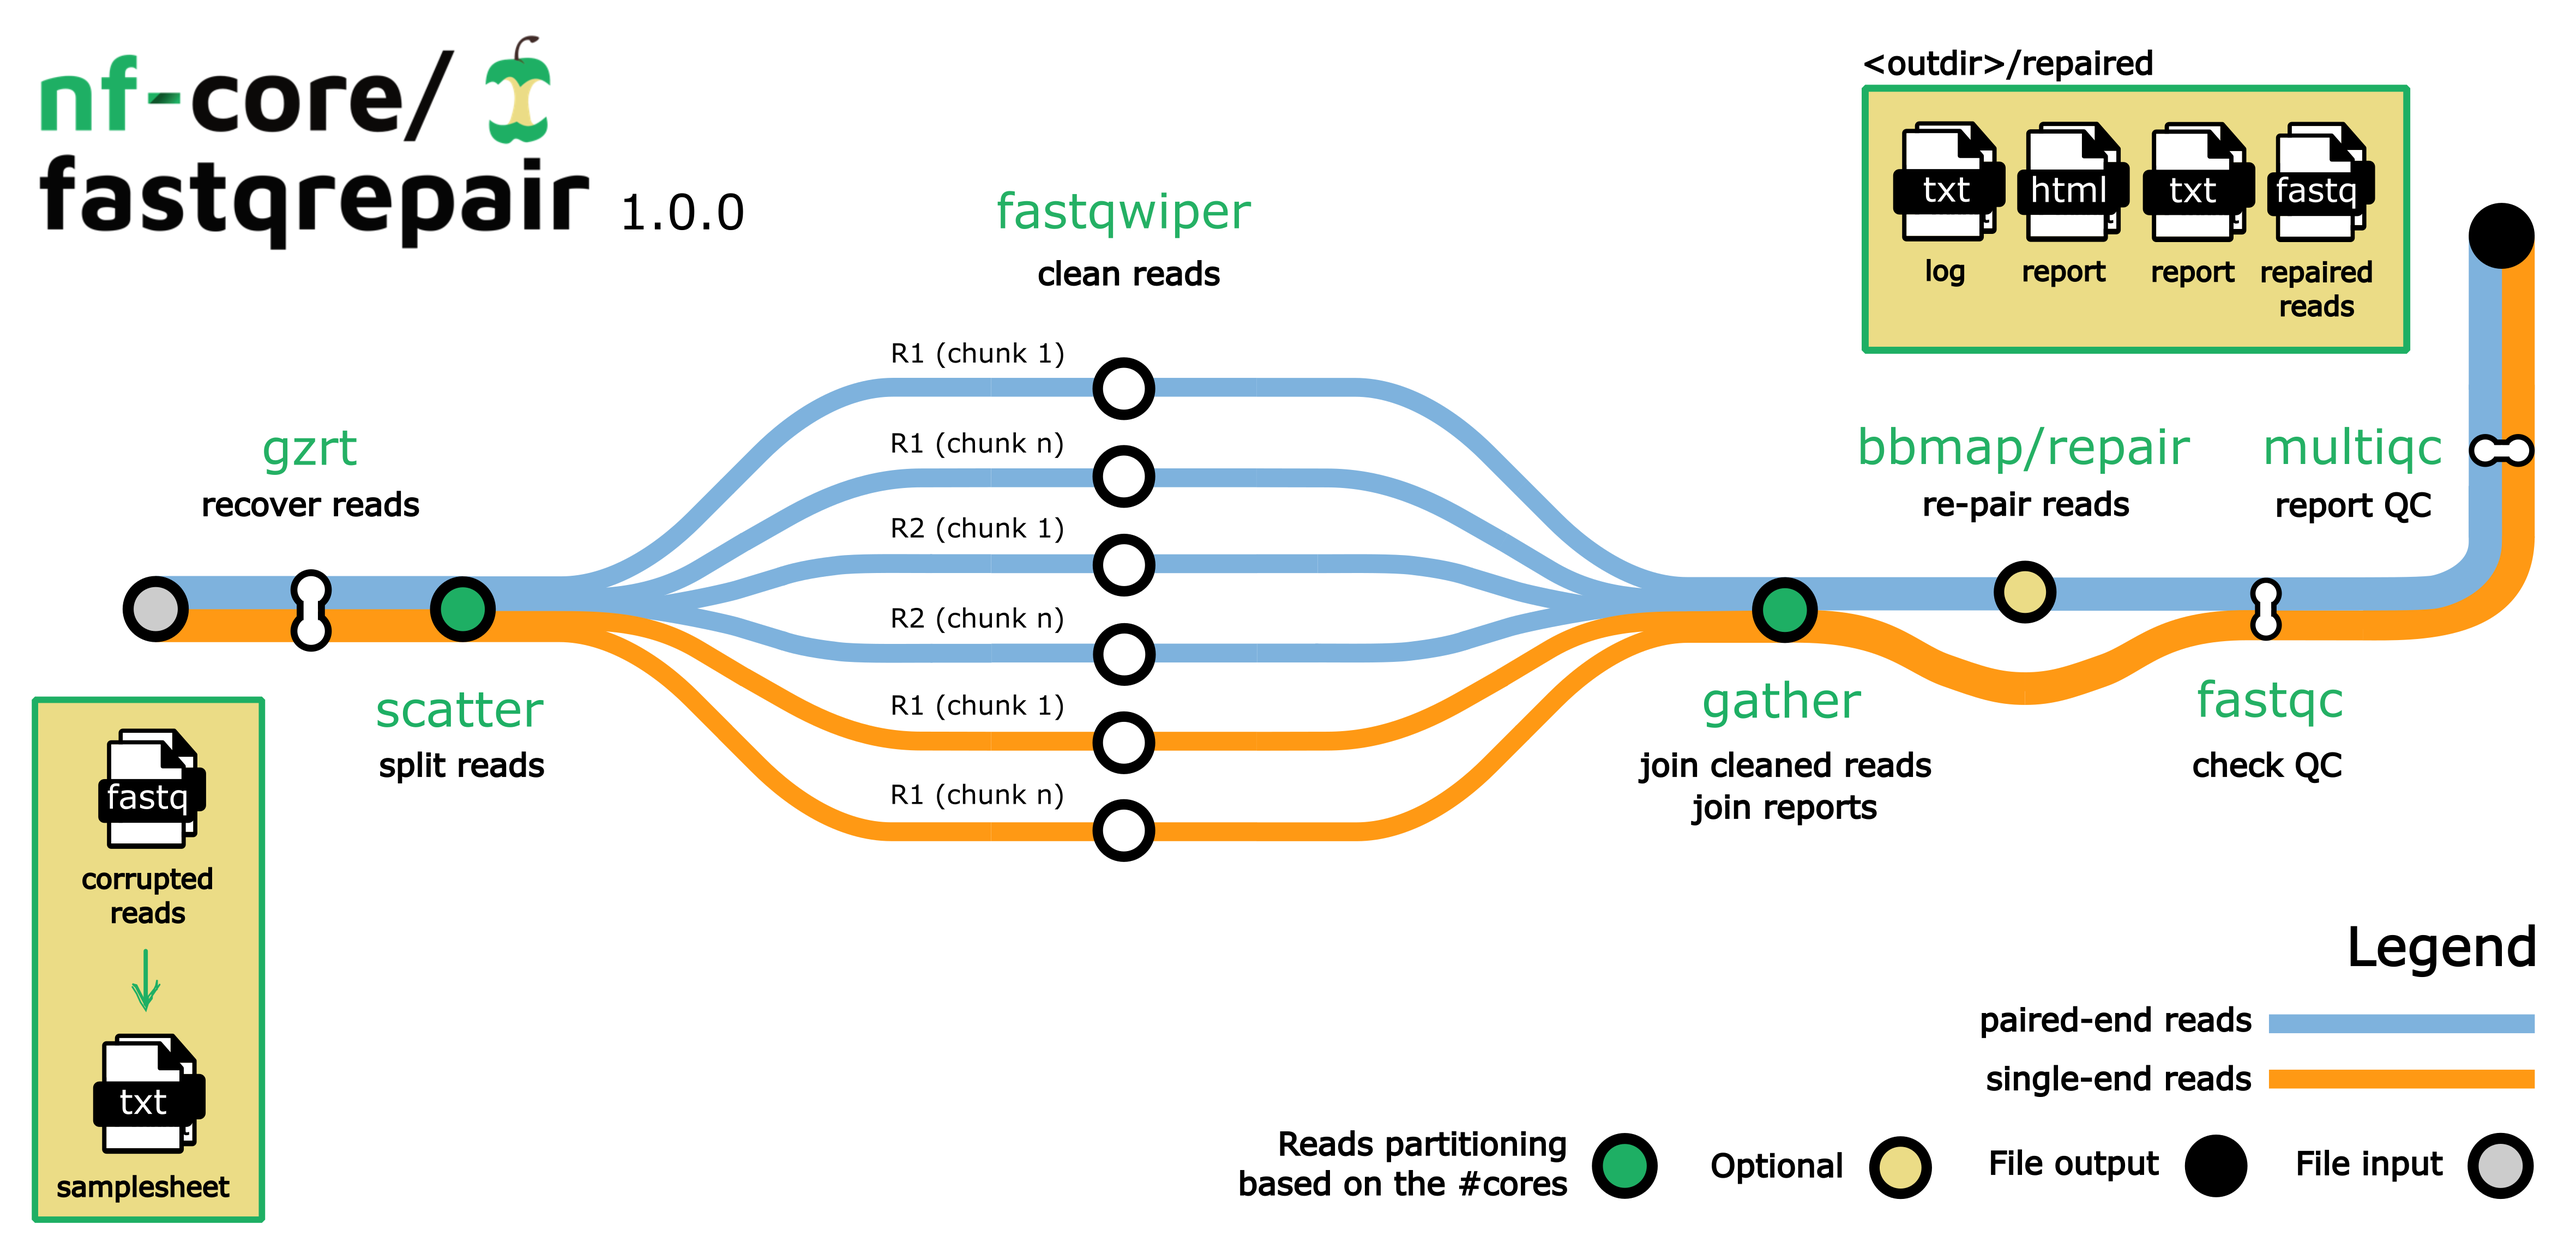
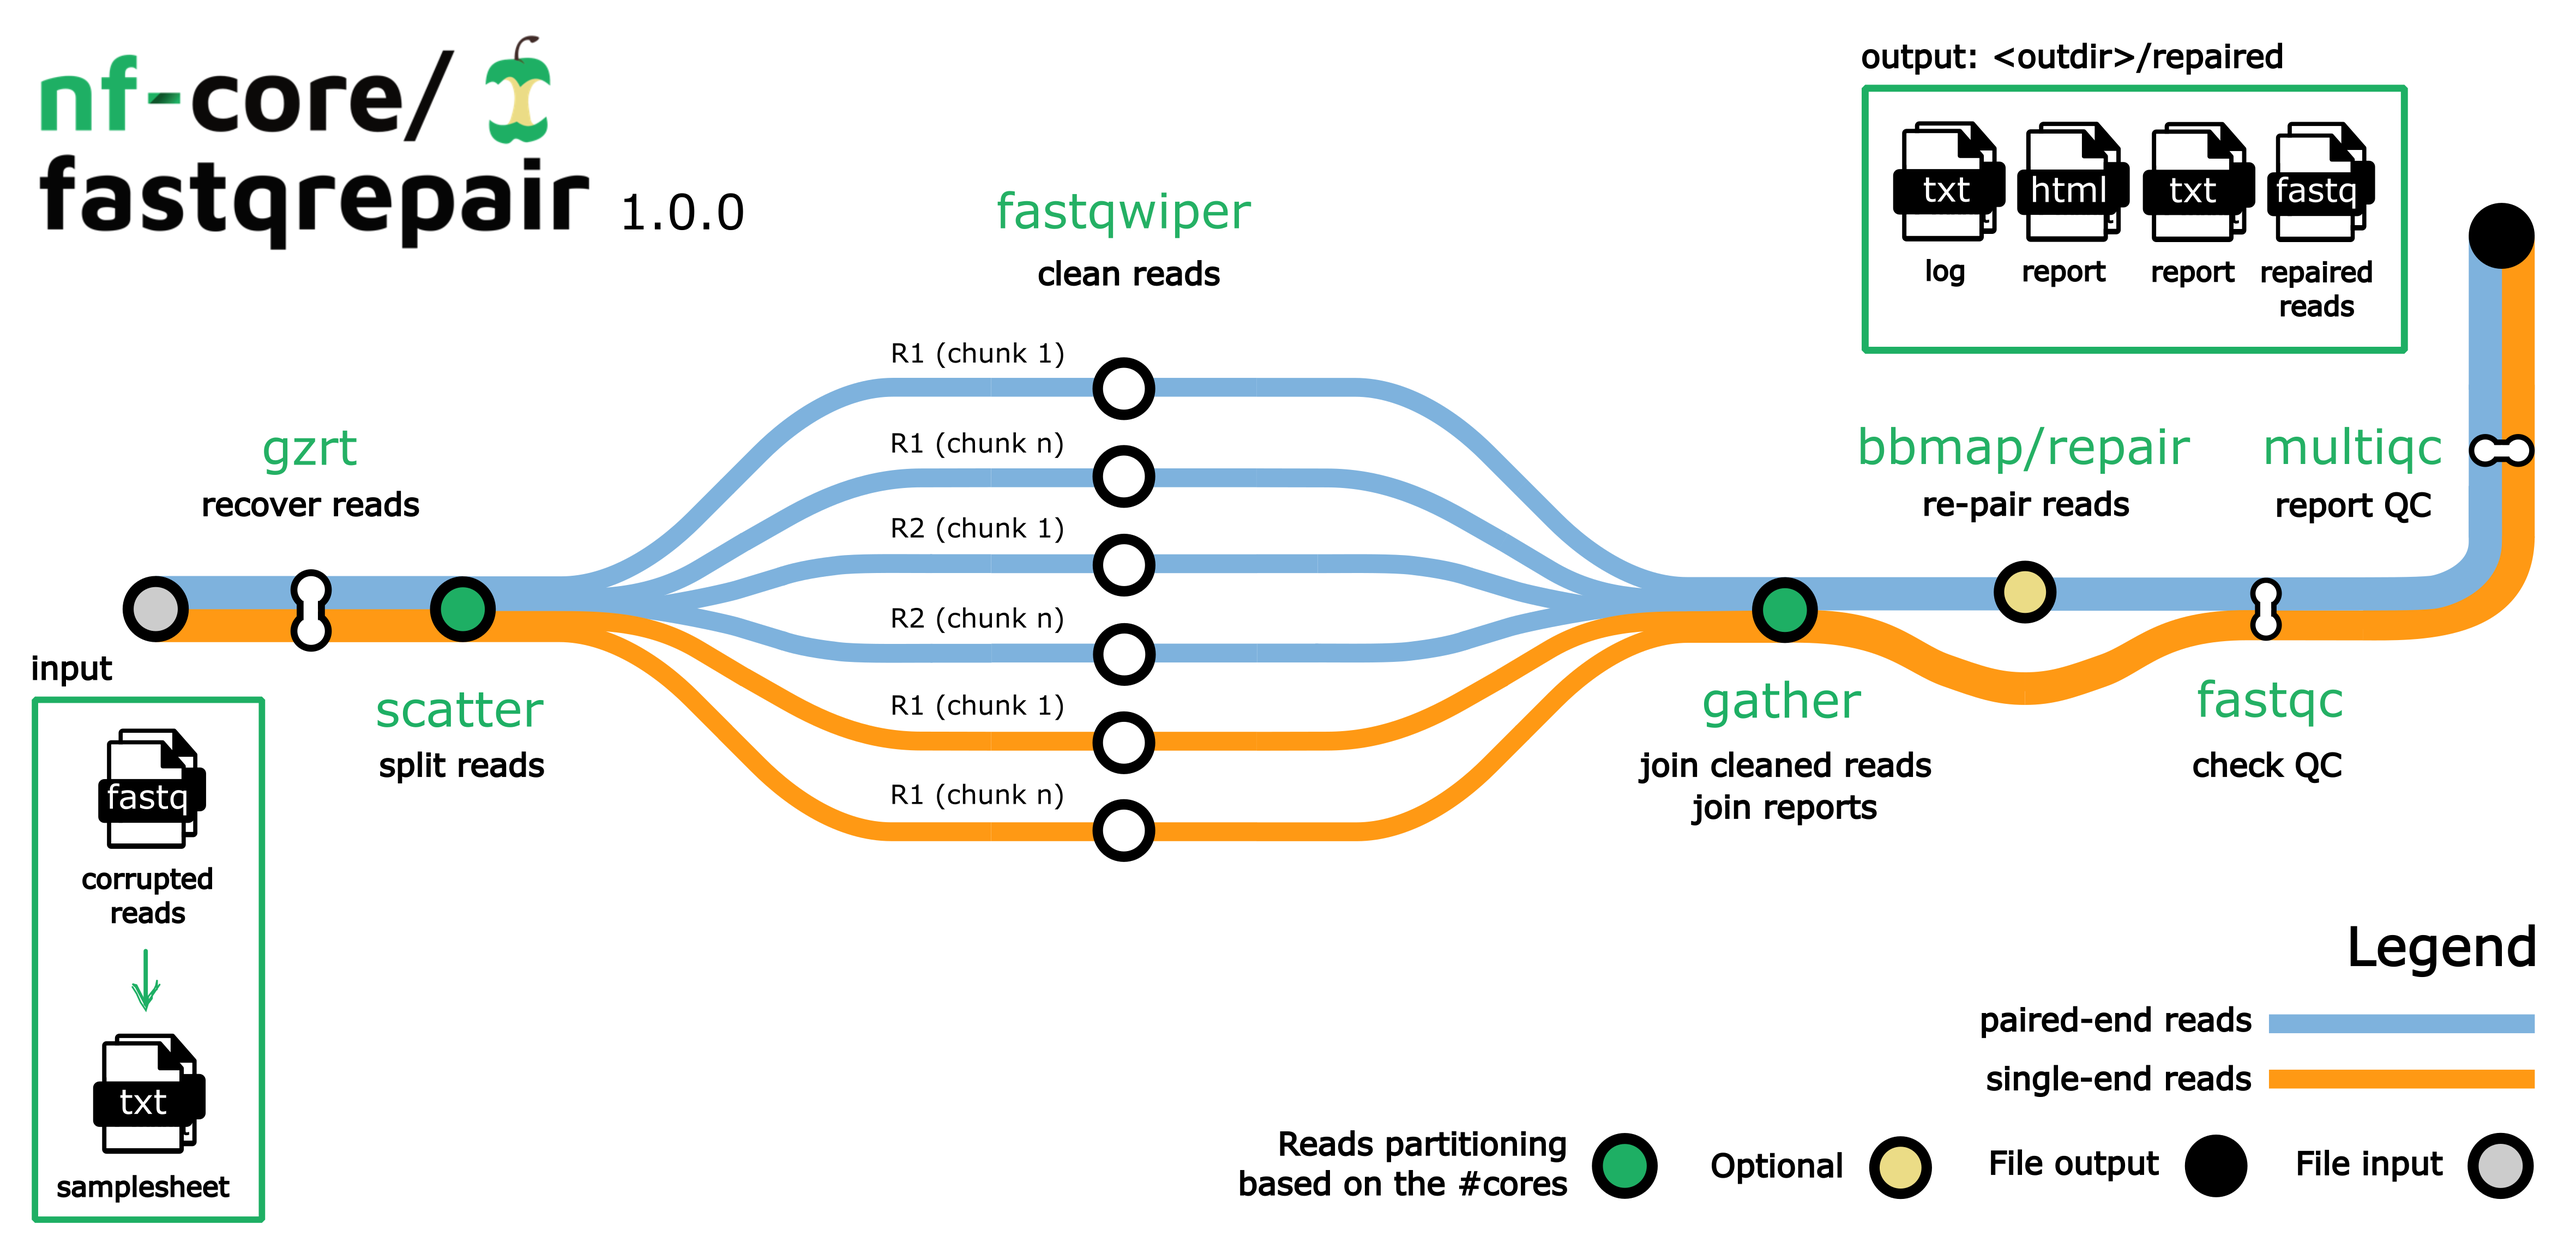
improved flow diagram and edited usage.md

Changed region(s): [[0.0, 0.5273, 0.1245, 0.9926], [0.7157, 0.031, 0.9335, 0.2792]]

diff --git a/docs/usage.md b/docs/usage.md
@@ -88,7 +88,7 @@ input: "./samplesheet.csv"
 outdir: "./results/"
 ```
 
-Optional parameters are described in the [Parameters](https://nf-co.re/fastqrepair/dev/parameters/) tab.
+Optional parameters are described in the [Parameters](https://nf-co.re/fastqrepair/parameters/) tab.
 
 You can also generate such `YAML`/`JSON` files via [nf-core/launch](https://nf-co.re/launch).
 
